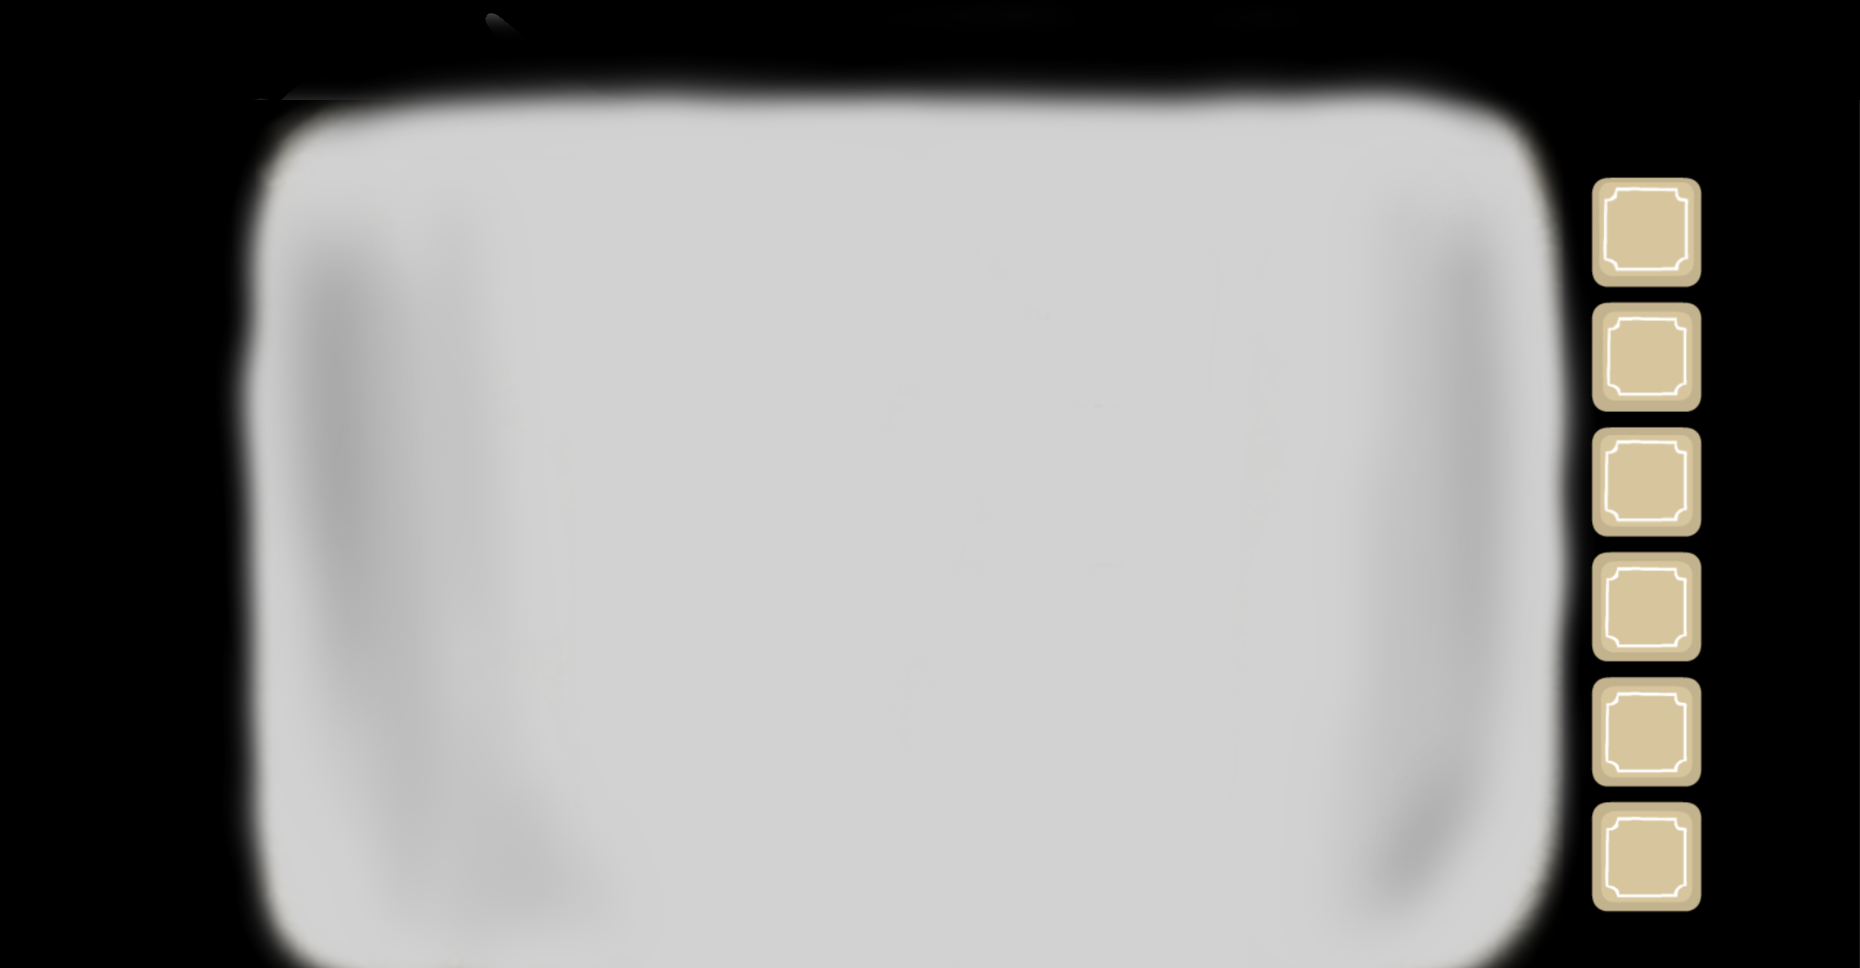
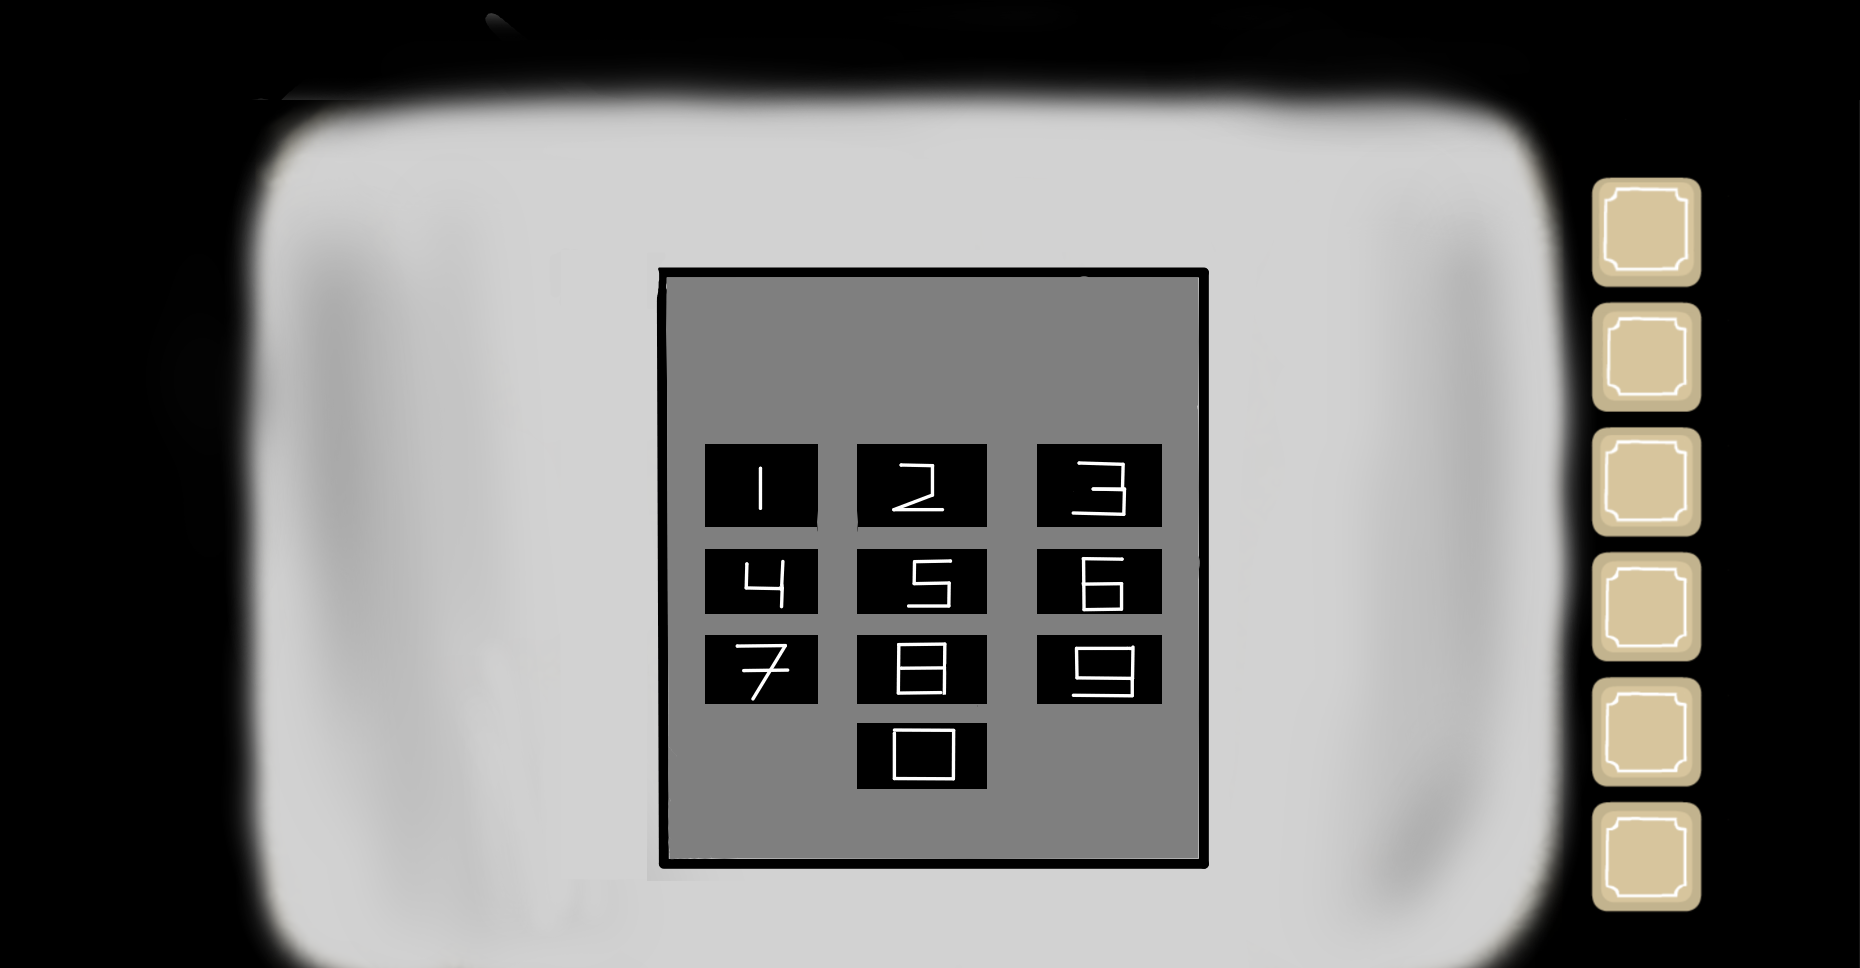
добавила сейф(незавершённый) и еще дилог

Changed region(s): [[0.343, 0.2789, 0.6548, 0.8988], [0.6548, 0.062, 0.7796, 0.155], [0.1247, 0.3409, 0.1559, 0.4649]]

diff --git a/main_game.py b/main_game.py
@@ -49,7 +49,8 @@ if __name__ == '__main__':
                                    1480, 550, print, 'button_sound.ogg', True, 8)
     button_left_level = AnimatedButton(['button_right.png'],
                                         300, 550, print, 'button_sound.ogg', True, 7)
-    # page_room_tab
+    # door_exit_level
+    door_exit_level = AnimatedButton(['door_exit_level.png'], 750, 270, print, 'button_sound.ogg', True, 35)
     safe = AnimatedButton(['сейф2.png'], 360, 445, print, 'button_sound.ogg', True, 10)
     help_page = AnimatedButton(['подсказка_2.png'], 1270, 590, print, 'button_sound.ogg', True, 11)
     page_room_tab = AnimatedButton(['page_room_tab.png'],
@@ -58,8 +59,9 @@ if __name__ == '__main__':
                            700, 310, print, None, True, 6)
     door1 = AnimatedButton(['door_number2.png'],
                            1150, 310, print, None, True, 5)
+    delet = AnimatedButton(['cейф_пароль_0.png'], 700, 300, print, None)
     button_dialog_door = DialogSprite(['door_dialog.png'], 500, 100, print, door3_dil, 22)
-    #dialog_door_level = DialogSprite(['room_dialog.png'], 500, 100, print, door3_dil, 22)
+    dialog_door_level = DialogSprite(['room_dialog.png'], 400, 100, print, door_exit_level, 35)
     rabbit_dialog = DialogSprite(['image.png'], 500, 100, print, spite1, 8)
     deer_dialog = DialogSprite(['deer_dialog.png'], 500, 100, print, spite3, 9)
     pigion_dialog = DialogSprite(['pigion_dialog.png'], 500, 100, print, spite2, 10)
@@ -76,11 +78,13 @@ if __name__ == '__main__':
          [button_go_to_lift, 0], [button_dowm, 2], [buttons_in_lift, 2], [buttons_hall, 3], [door3, 4],
          [button_dowm2, 5], [door2, 4], [door1, 4], [button_dialog_door, -1], [door3_dil, 5], [button_dowm2, 6],
          [door_go_to_level, 6], [button_right_level, 7], [button_left_level, 8], [page_room_tab, 7], [button_dowm3, 9],
-         [safe, 7], [button_dowm4, 10], [help_page, 7], [button_dowm4, 11]],
+         [safe, 7], [button_dowm4, 10], [help_page, 7], [button_dowm4, 11], [door_exit_level, 8], [dialog_door_level, -1],
+         [delet, 10]],
         screen)
 
     x.draw_level()
     all_sprites2 = pygame.sprite.Group()
+    all_sprites2.add(dialog_door_level)
     all_sprites2.add(rabbit_dialog)
     all_sprites2.add(button_dialog_door)
     all_sprites2.add(deer_dialog)
@@ -88,6 +92,7 @@ if __name__ == '__main__':
     all_sprites2.add(bird_dialog)
     all_sprites2.add(turkey_dialog)
     all_sprites2.add(pig_dialog)
+    dialog_door_level.function = x.change_screen_off
     rabbit_dialog.function = x.change_screen_off
     button_dialog_door.function = x.change_screen_off
     deer_dialog.function = x.change_screen_off
@@ -120,6 +125,7 @@ if __name__ == '__main__':
     spite5.function = x.change_screen_on
     spite6.function = x.change_screen_on
     door3_dil.function = x.change_screen_on
+    door_exit_level.function = x.change_screen_on
     while running:
         screen.fill((0, 0, 0))
         for event in pygame.event.get():
